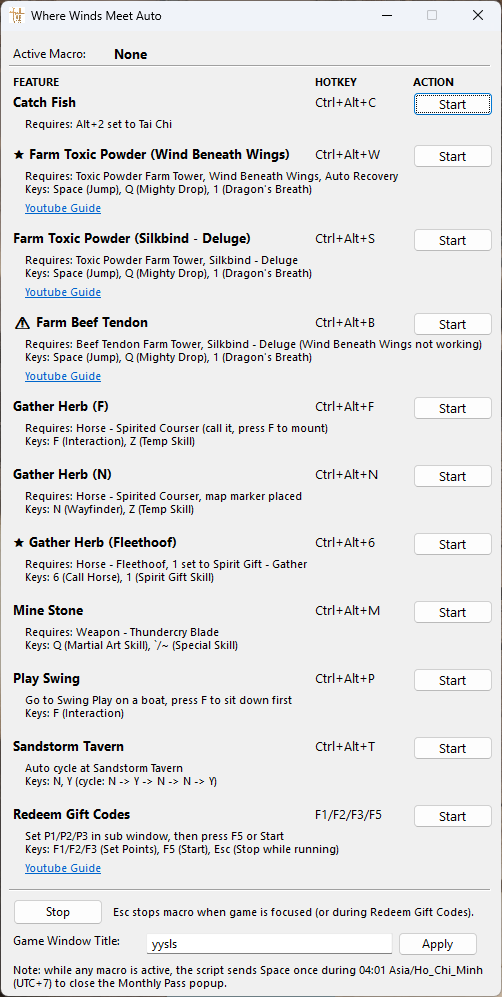
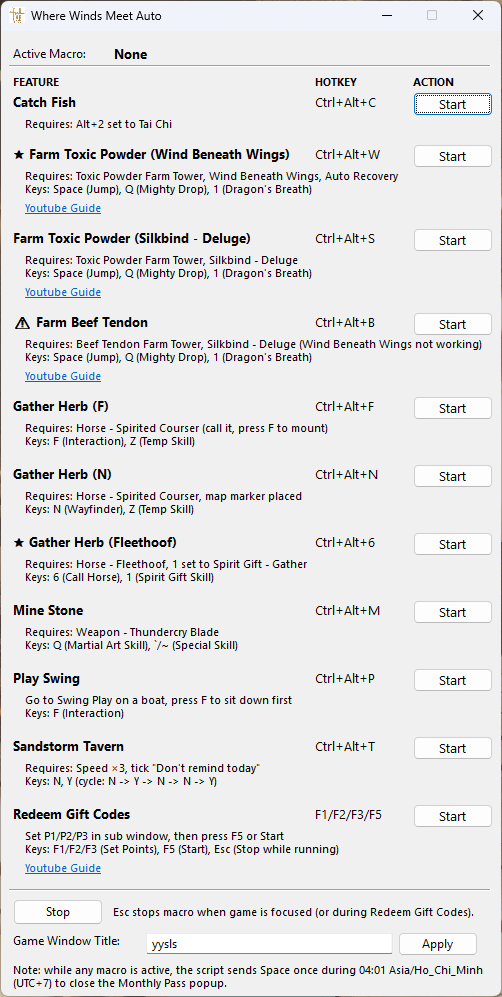
refactor: clean up

diff --git a/README.md b/README.md
@@ -21,7 +21,7 @@ AutoHotkey v2 automation script for _Where Winds Meet_ with a GUI launcher and h
 | ⭐ Gather Herb (Fleethoof)                | Ctrl+Alt+6 | Horse — Fleethoof, 1 set to Spirit Gift - Gather           |
 | Mine Stone                                | Ctrl+Alt+M | Weapon — Thundercry Blade                                  |
 | Play Swing                                | Ctrl+Alt+P | Sit on a boat swing first                                  |
-| Sandstorm Tavern                          | Ctrl+Alt+T | Speed ×3, tick "Don't remind me today" / "Don't show this again today" |
+| Sandstorm Tavern                          | Ctrl+Alt+T | Speed ×3, tick "Don't remind today"                       |
 | Redeem Gift Codes                         | F1/F2/F3/F5| Set P1/P2/P3 points in Auto Code sub window               |
 
 ---
